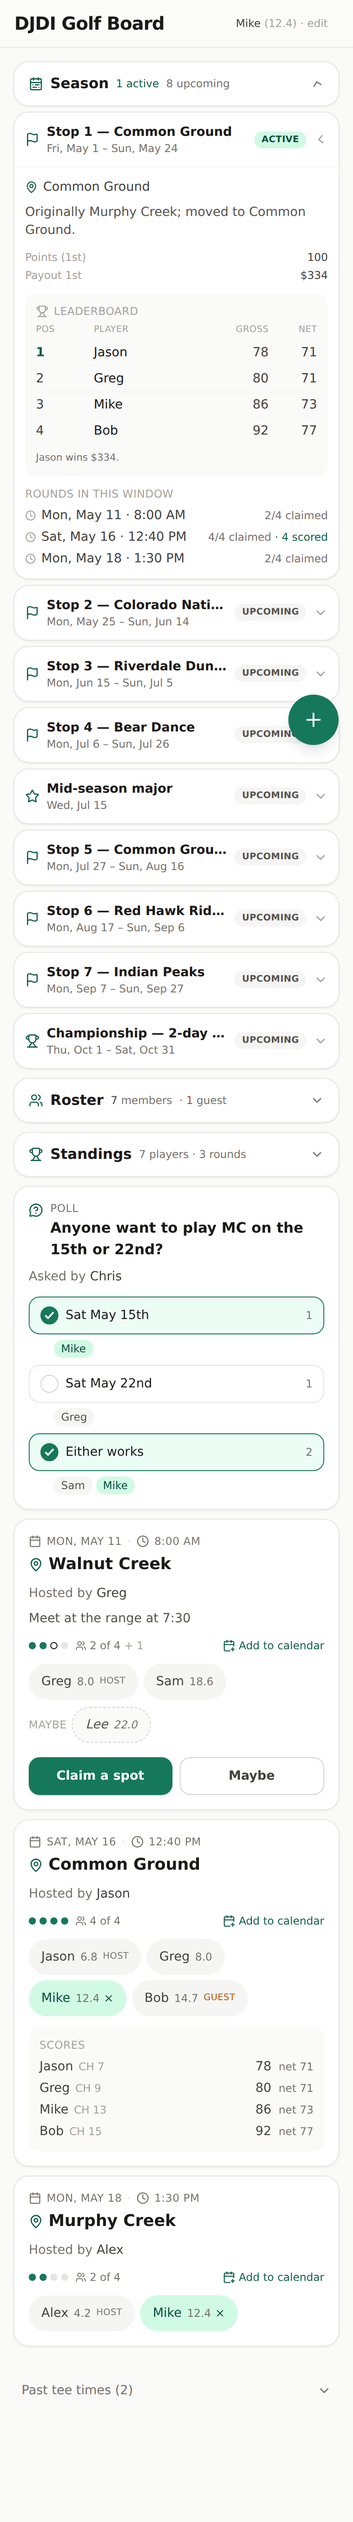
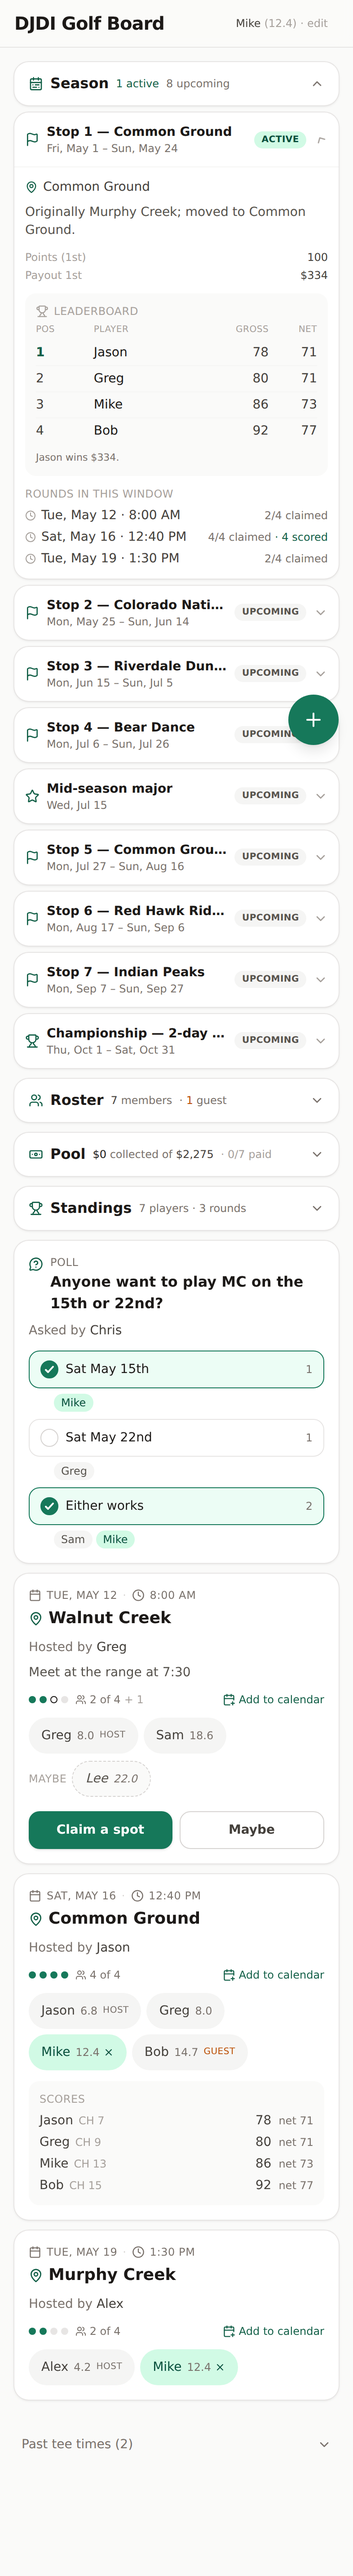
docs: Add screenshots for Phases 6 + 7 (points, pool, post-season)
Three new shots and an updated SCREENSHOTS.md to cover the league-
scoring loop the app now models end to end:

- 14 — Pool / buy-in tracker expanded: mixed Paid (green) and Owed
  (amber) rows, $975 collected of $2,275, outstanding-amount footer.
- 15 — Standings sorted by season points: shows the new default
  view with seed badges (1..4) next to the top 4 by points. The
  Colorado National card visible below demonstrates the COL-107
  attestation chips ("att. Greg", "att. Alex") next to each scored
  row.
- 16 — Championship card expanded: post-season bracket with seed
  badges + stroke advantages + Total column.

scripts/screenshots.ts seeds:
- A second regular-tournament round (Colorado National, Stop 2) with
  full courseHcp + attestedBy fields on every score
- A 2-day Championship slate (Day 1 + Day 2) so the post-season
  leaderboard has real adjusted totals
- Mixed paid/unpaid buy-in state (3 of 7 paid) before shot 14

Skipped shot 10 (record-scores sheet) again — same flaky host-menu
click as before. Wrapped in try/catch so the rest of the run
completes.

https://claude.ai/code/session_0173k9V19kn8JeqqCc5oe1jH

diff --git a/scripts/screenshots.ts b/scripts/screenshots.ts
@@ -258,6 +258,91 @@ async function main() {
     console.warn("Skipped 13 (roster):", (err as Error).message);
   }
 
+  // 14. Finances / Pool card expanded — toggle Greg paid to show mixed
+  // states.
+  try {
+    await api("PATCH", "/api/buyins/Greg", { paid: true });
+    await api("PATCH", "/api/buyins/Mike", { paid: true });
+    await api("PATCH", "/api/buyins/Jason", { paid: true });
+    await page.reload();
+    await page.evaluate(() => window.scrollTo(0, 0));
+    await page.locator("button", { hasText: "Pool" }).first().click({ timeout: 5000 });
+    await page.waitForSelector("text=Paid", { timeout: 5000 });
+    await page.screenshot({
+      path: path.join(OUT, "14-finances-pool.png"),
+      fullPage: true,
+    });
+  } catch (err) {
+    console.warn("Skipped 14 (finances):", (err as Error).message);
+  }
+
+  // 15. Standings sorted by Points — should show seed badges next to top 4.
+  // Need scores across multiple regular tournaments. We already inserted a
+  // Stop 1 round in shot 12; add a Stop 2 round so the points table has
+  // content.
+  try {
+    const sqlite3c = await import("better-sqlite3");
+    const db3 = new (sqlite3c as any).default("golf_coordinator.db");
+    db3.prepare(
+      `INSERT OR REPLACE INTO tee_times (id, course, date, time, spots, host, notes, claims, interested, scores, created_at)
+       VALUES (?, 'Colorado National', '2026-06-01', '08:00', 4, 'Greg', NULL,
+               '[{"name":"Greg","claimedAt":"2026-06-01T00:00:00Z"},{"name":"Mike","claimedAt":"2026-06-01T00:00:00Z"},{"name":"Alex","claimedAt":"2026-06-01T00:00:00Z"},{"name":"Sam","claimedAt":"2026-06-01T00:00:00Z"}]',
+               '[]',
+               '[{"name":"Greg","gross":76,"courseHcp":8,"attestedBy":"Alex","recordedAt":"2026-06-01T19:00:00Z"},{"name":"Mike","gross":85,"courseHcp":13,"attestedBy":"Alex","recordedAt":"2026-06-01T19:00:00Z"},{"name":"Alex","gross":74,"courseHcp":4,"attestedBy":"Greg","recordedAt":"2026-06-01T19:00:00Z"},{"name":"Sam","gross":96,"courseHcp":19,"attestedBy":"Greg","recordedAt":"2026-06-01T19:00:00Z"}]',
+               '2026-06-01T00:00:00Z')`
+    ).run("stop2-r1");
+    db3.close();
+
+    await page.reload();
+    await page.evaluate(() => window.scrollTo(0, 0));
+    await page.locator("button", { hasText: "Standings" }).first().click({ timeout: 5000 });
+    // Points sort is the default; ensure it's active.
+    await page.locator("button", { hasText: "Points" }).first().click({ timeout: 5000 });
+    await page.waitForSelector("text=Pts", { timeout: 5000 });
+    await page.screenshot({
+      path: path.join(OUT, "15-standings-points.png"),
+      fullPage: true,
+    });
+  } catch (err) {
+    console.warn("Skipped 15 (standings-points):", (err as Error).message);
+  }
+
+  // 16. Post-season bracket — insert a Championship 2-day round and look
+  // at the post-season tournament card.
+  try {
+    const sqlite3d = await import("better-sqlite3");
+    const db4 = new (sqlite3d as any).default("golf_coordinator.db");
+    db4.prepare(
+      `INSERT OR REPLACE INTO tee_times (id, course, date, time, spots, host, notes, claims, interested, scores, created_at)
+       VALUES (?, 'Championship', '2026-10-10', '08:00', 4, 'Jason', 'Day 1',
+               '[{"name":"Jason","claimedAt":"2026-10-10T00:00:00Z"},{"name":"Greg","claimedAt":"2026-10-10T00:00:00Z"},{"name":"Alex","claimedAt":"2026-10-10T00:00:00Z"},{"name":"Mike","claimedAt":"2026-10-10T00:00:00Z"}]',
+               '[]',
+               '[{"name":"Jason","gross":78,"courseHcp":7,"attestedBy":"Greg","recordedAt":"2026-10-10T19:00:00Z"},{"name":"Greg","gross":80,"courseHcp":8,"attestedBy":"Jason","recordedAt":"2026-10-10T19:00:00Z"},{"name":"Alex","gross":74,"courseHcp":4,"attestedBy":"Mike","recordedAt":"2026-10-10T19:00:00Z"},{"name":"Mike","gross":85,"courseHcp":12,"attestedBy":"Alex","recordedAt":"2026-10-10T19:00:00Z"}]',
+               '2026-10-10T00:00:00Z')`
+    ).run("post-d1");
+    db4.prepare(
+      `INSERT OR REPLACE INTO tee_times (id, course, date, time, spots, host, notes, claims, interested, scores, created_at)
+       VALUES (?, 'Championship', '2026-10-11', '08:00', 4, 'Jason', 'Day 2',
+               '[{"name":"Jason","claimedAt":"2026-10-11T00:00:00Z"},{"name":"Greg","claimedAt":"2026-10-11T00:00:00Z"},{"name":"Alex","claimedAt":"2026-10-11T00:00:00Z"},{"name":"Mike","claimedAt":"2026-10-11T00:00:00Z"}]',
+               '[]',
+               '[{"name":"Jason","gross":76,"courseHcp":7,"attestedBy":"Greg","recordedAt":"2026-10-11T19:00:00Z"},{"name":"Greg","gross":79,"courseHcp":8,"attestedBy":"Jason","recordedAt":"2026-10-11T19:00:00Z"},{"name":"Alex","gross":75,"courseHcp":4,"attestedBy":"Mike","recordedAt":"2026-10-11T19:00:00Z"},{"name":"Mike","gross":82,"courseHcp":12,"attestedBy":"Alex","recordedAt":"2026-10-11T19:00:00Z"}]',
+               '2026-10-11T00:00:00Z')`
+    ).run("post-d2");
+    db4.close();
+
+    await page.reload();
+    await page.evaluate(() => window.scrollTo(0, 0));
+    await page.locator("button", { hasText: "Season" }).first().click({ timeout: 5000 });
+    await page.locator("button", { hasText: "Championship" }).first().click({ timeout: 5000 });
+    await page.waitForSelector("text=Post-season leaderboard", { timeout: 5000 });
+    await page.screenshot({
+      path: path.join(OUT, "16-post-season.png"),
+      fullPage: true,
+    });
+  } catch (err) {
+    console.warn("Skipped 16 (post-season):", (err as Error).message);
+  }
+
   // 10. Record scores sheet — set name to the host of the past round, open
   // the host menu on the past card, click Edit scores. Best-effort: if the
   // menu can't be opened in headless mode we just skip this shot rather

diff --git a/SCREENSHOTS.md b/SCREENSHOTS.md
@@ -115,3 +115,36 @@ they save handicap info.
 
 ![roster](./screenshots/13-roster.png)
 
+## 14. Pool / buy-in tracker
+
+Header summarizes the prize pool ("$975 collected of $2,275 · 3/7
+paid"). Each member row toggles between **Paid** (green checkmark)
+and **Owed** (amber). Footer shows outstanding amount; default
+buy-in is $325 from the rule sheet. Buy-in rows are auto-created on
+member-promotion and deleted on demotion.
+
+![pool](./screenshots/14-finances-pool.png)
+
+## 15. Standings sorted by season points
+
+The new default Standings view. Points are awarded by finishing
+position in each regular tournament (1st = 100, 2nd = 80, 3rd = 65,
+… following the FedEx-Cup-style table). The top 4 by points get a
+small fairway-green seed badge next to their name — that's the
+projected post-season seeding. Notice the Common Ground card below
+shows the round that fed these points, and the Colorado National
+card shows the league-attested scores ("att. Greg", "att. Alex").
+
+![standings points](./screenshots/15-standings-points.png)
+
+## 16. Post-season bracket
+
+Championship tournament card expanded. Renders a sum-based
+leaderboard with seed badges (1..4) and stroke advantages (−4/−3/−2/−1)
+applied to the running net. Total column shows the adjusted score.
+Footer declares the payout winners ($1,014 / $390 / $156). When no
+post-season rounds are posted yet, the bracket shows the locked-in
+seeds and what stroke advantage they'll start at.
+
+![post-season](./screenshots/16-post-season.png)
+
